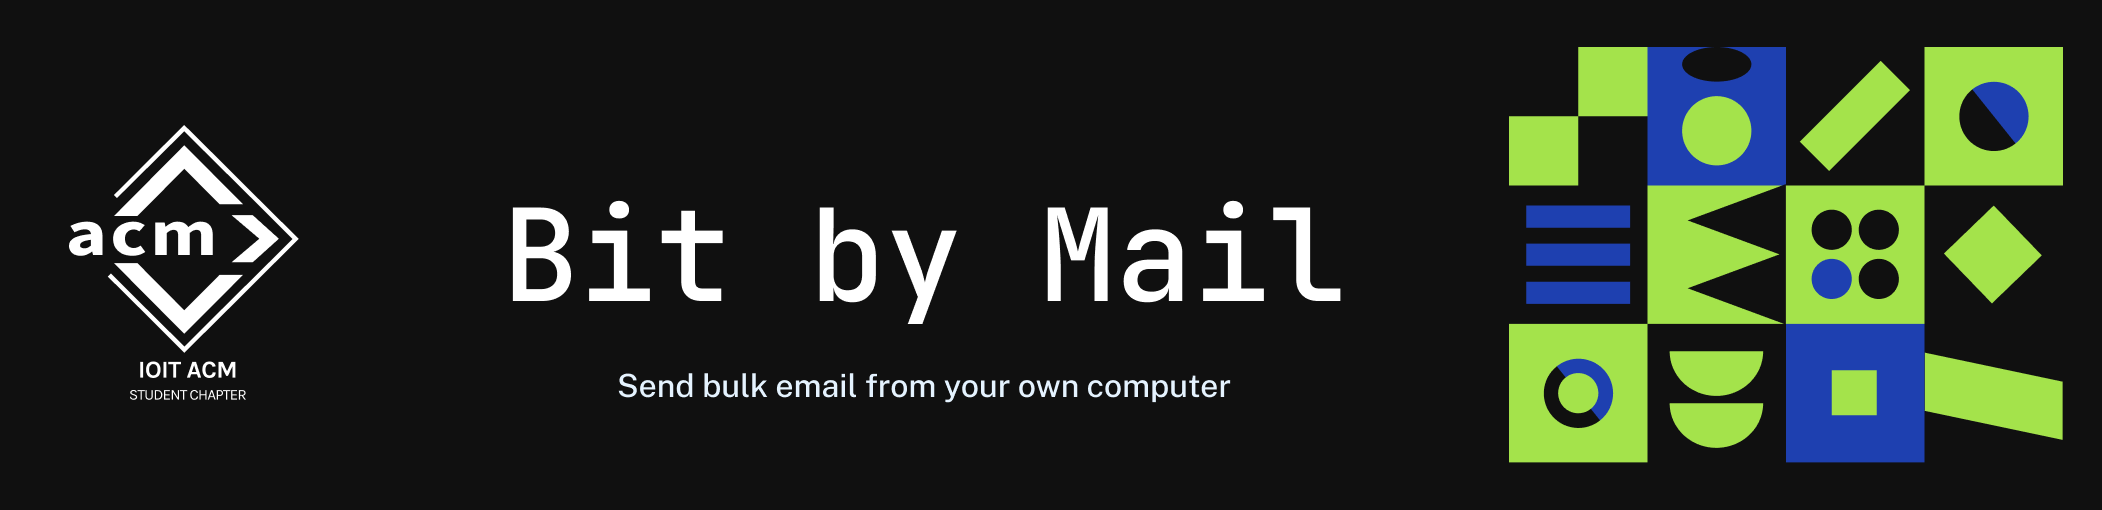
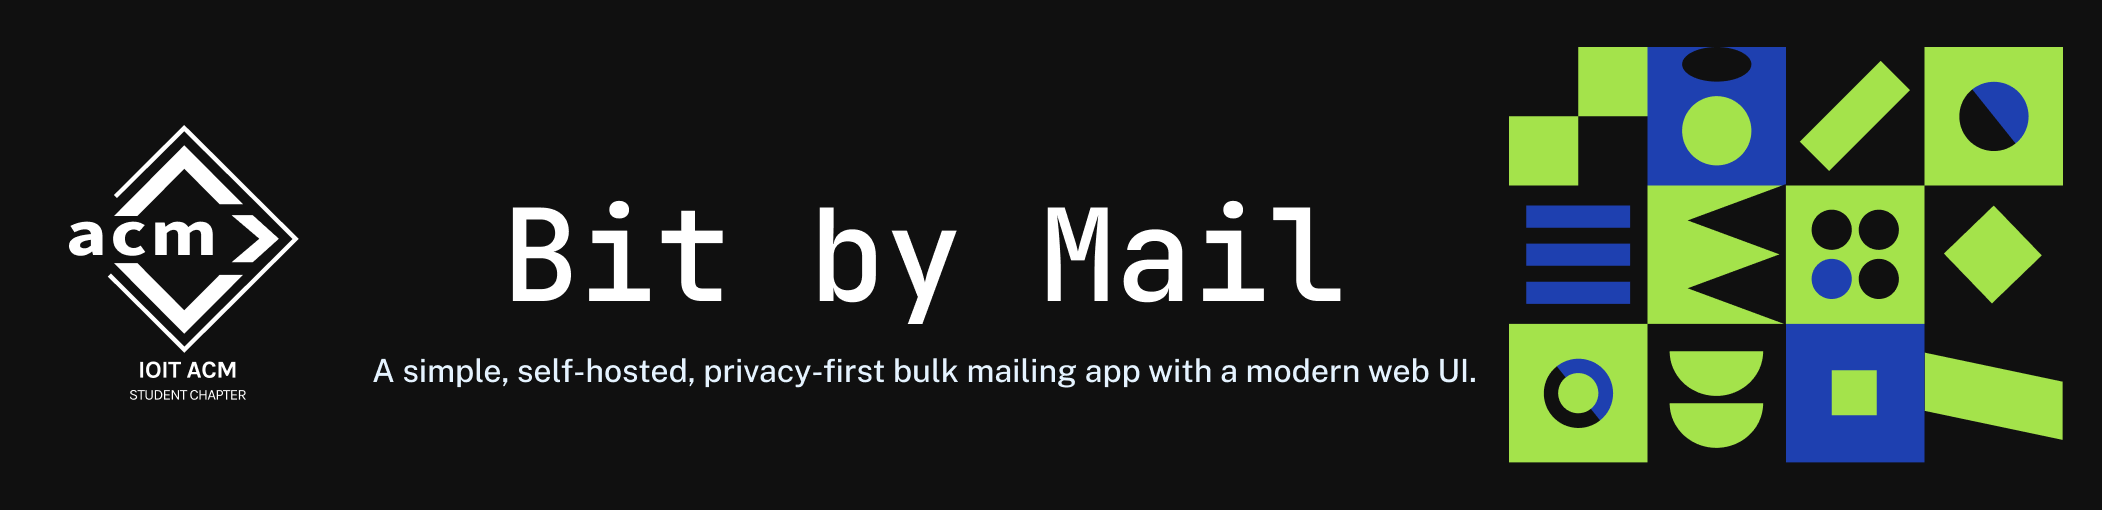
docs: webmanifest update

Changed region(s): [[0.1546, 0.7059, 0.7112, 0.7941]]

diff --git a/web/index.html b/web/index.html
@@ -4,6 +4,13 @@
     <meta charset="UTF-8" />
     <meta name="viewport" content="width=device-width, initial-scale=1.0" />
     <title>Bit By Mail | AISSMS IOIT ACM Student Chapter</title>
+
+    <link rel="icon" type="image/png" href="/favicon-96x96.png" sizes="96x96" />
+    <link rel="icon" type="image/svg+xml" href="/favicon.svg" />
+    <link rel="shortcut icon" href="/favicon.ico" />
+    <link rel="apple-touch-icon" sizes="180x180" href="/apple-touch-icon.png" />
+    <meta name="apple-mobile-web-app-title" content="Bit By Mail" />
+    <link rel="manifest" href="/site.webmanifest" />
   </head>
   <body>
     <div id="root"></div>

diff --git a/web/src/layouts/Sidebar.tsx b/web/src/layouts/Sidebar.tsx
@@ -310,7 +310,7 @@ export const Sidebar: React.FC = () => {
             )}
           </div>
           {isVisuallyExpanded && (
-            <span className="text-xs text-text-tertiary font-mono">v2.1.0</span>
+            <span className="text-xs text-text-tertiary font-mono">v2.1.1</span>
           )}
         </div>
       </div>

diff --git a/README.md b/README.md
@@ -2,12 +2,6 @@
   <img src="https://raw.githubusercontent.com/IOIT-ACM/bit-by-mail/refs/heads/main/docs/banner.png" alt="Bit by Mail Banner" width="100%" onerror="this.src='https://via.placeholder.com/1200x400/1e1e2a/3b82f6?text=Bit+By+Mail'">
 </p>
 
-<h1 align="center">bit-by-mail</h1>
-
-<p align="center">
-  <strong>A simple, self-hosted, privacy-first bulk mailing app with a modern web UI.</strong>
-</p>
-
 <p align="center">
   Send personalized bulk emails from your own machine, using your own SMTP account. No subscriptions, no third-party servers, no data leaving your computer.
 </p>
@@ -16,7 +10,7 @@
 
 ## Why bit-by-mail
 
-Most bulk email tools are SaaS platforms — you upload your recipient list to someone else's server and pay a monthly fee for the privilege. bit-by-mail flips that: it's a lightweight local app that runs on your machine and sends through your own email provider. Your data stays yours, and there's nothing to pay for.
+Most bulk email tools are SaaS platforms, where you upload your recipient list to someone else's server and pay a monthly fee for the privilege. bit-by-mail flips that: it's a lightweight local app that runs on your machine and sends through your own email provider. Your data stays yours, and there's nothing to pay for.
 
 ## Features
 